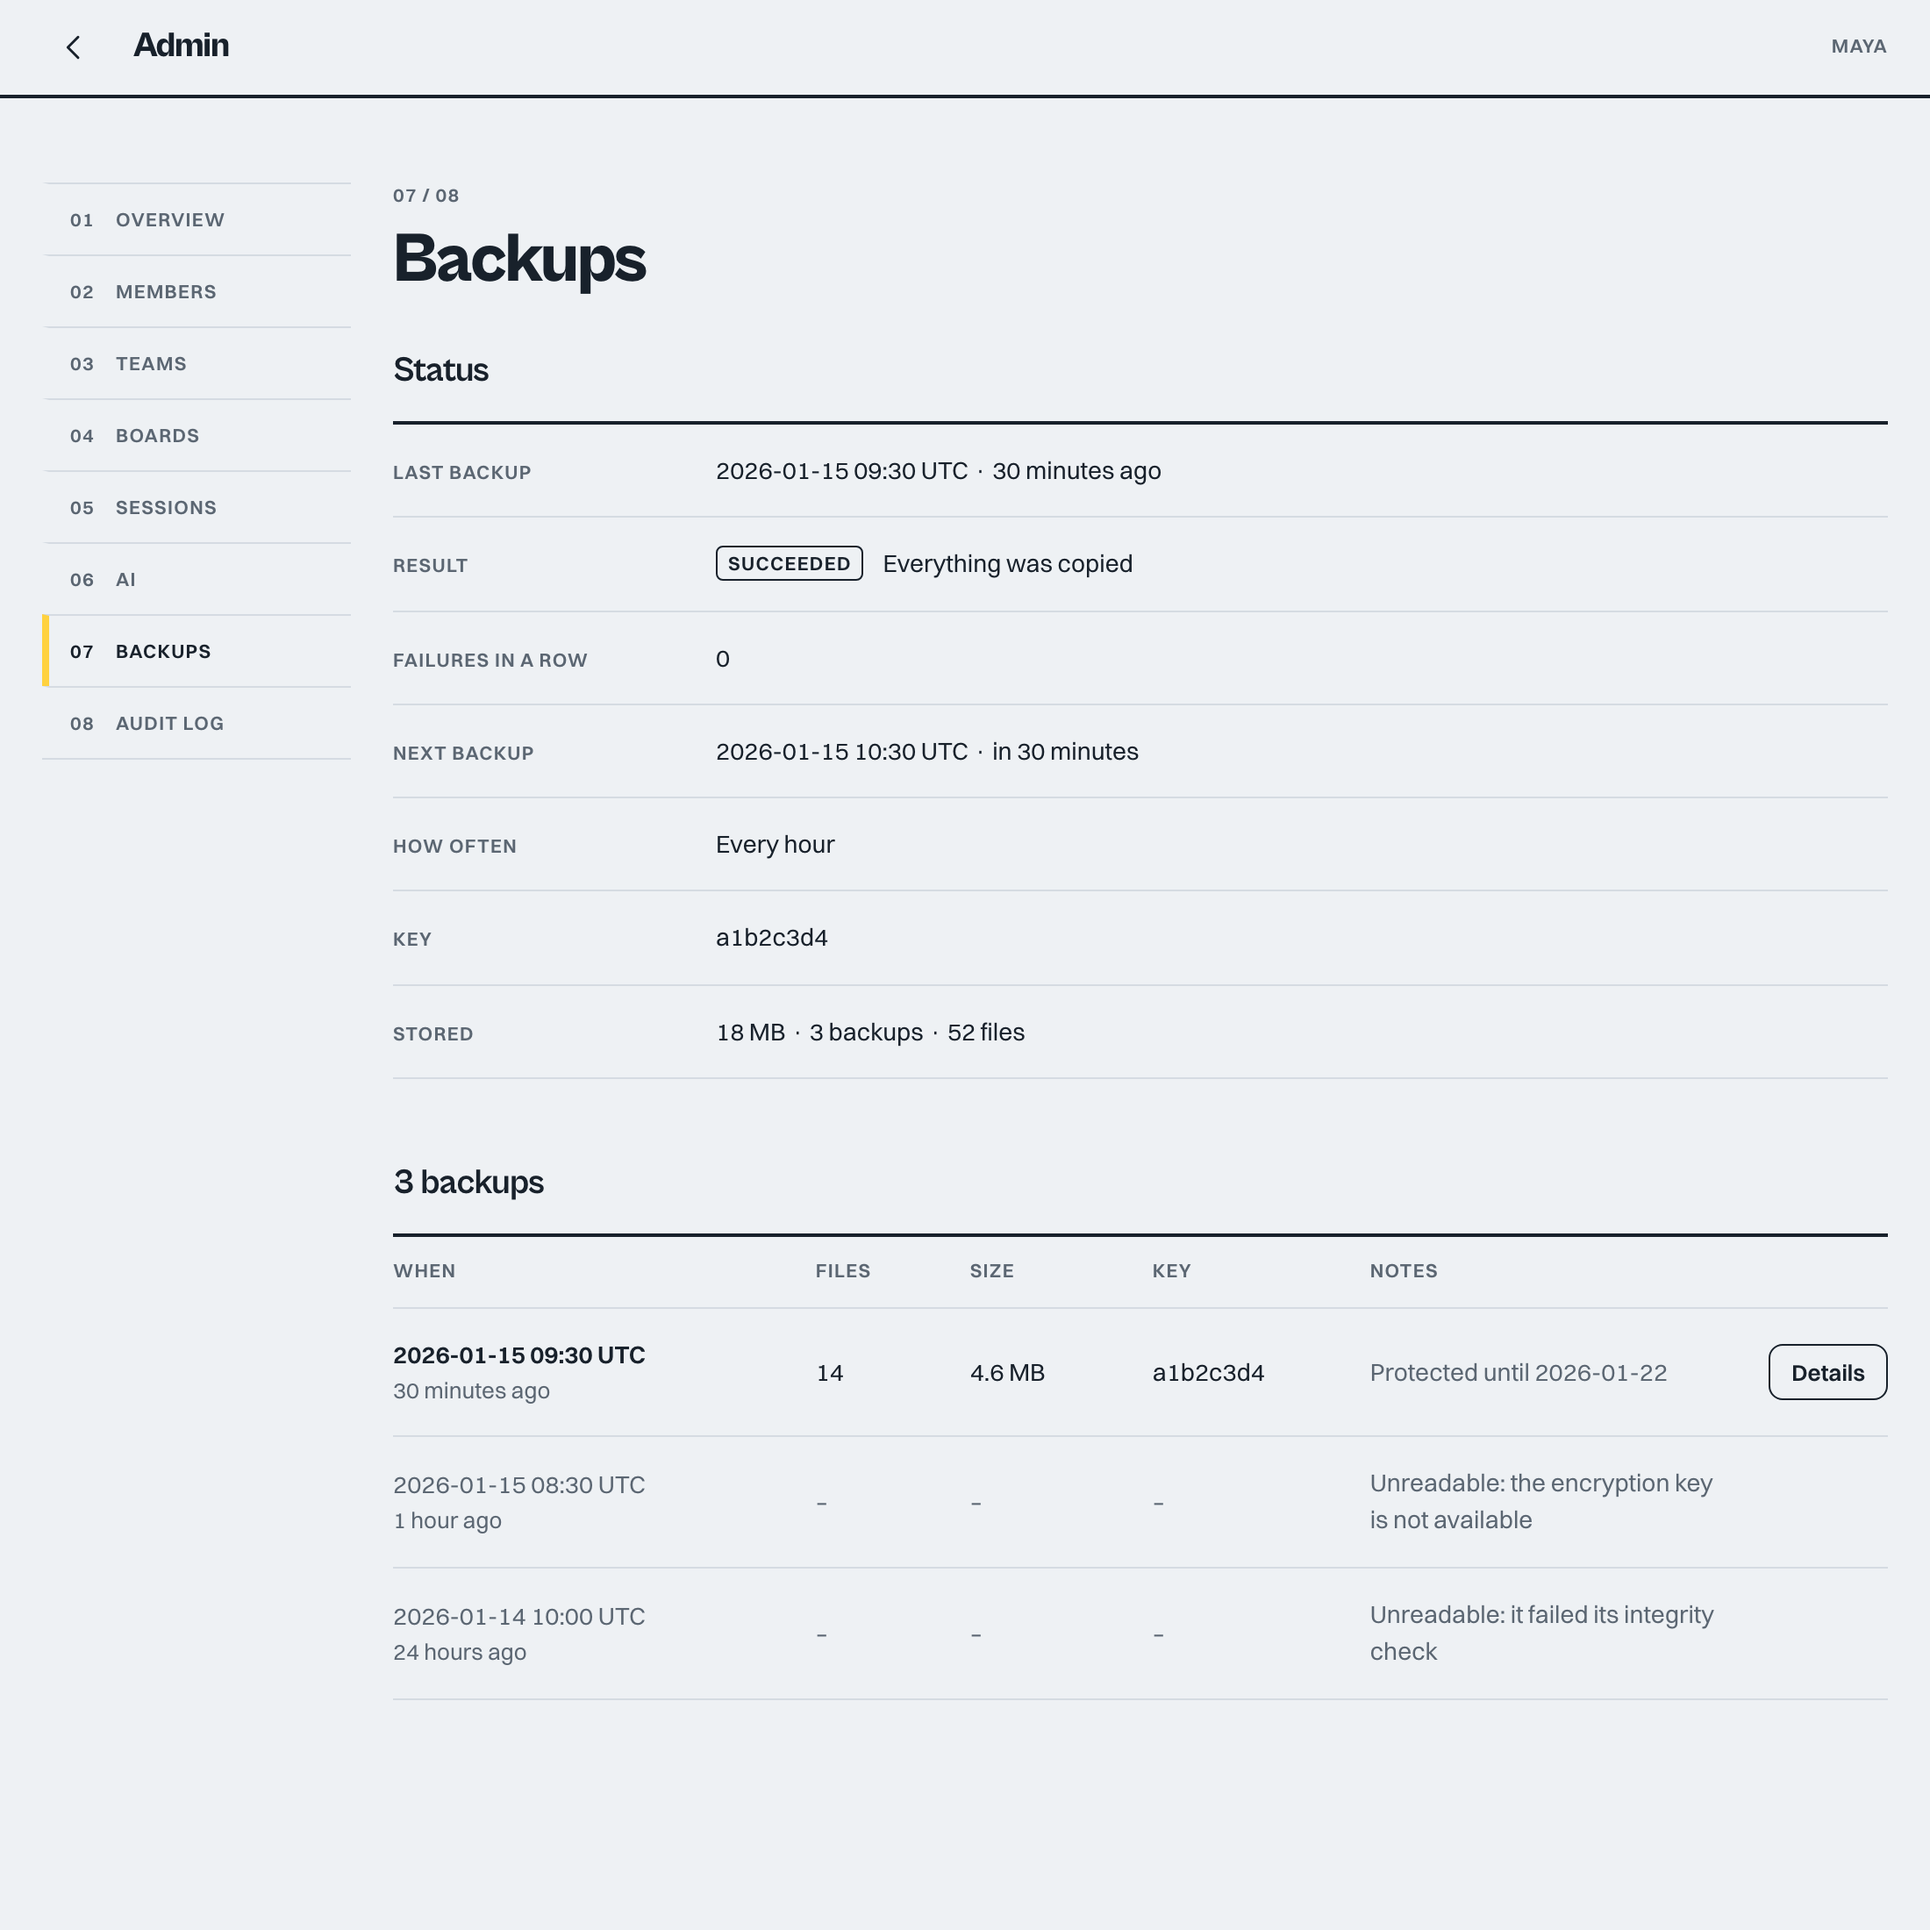
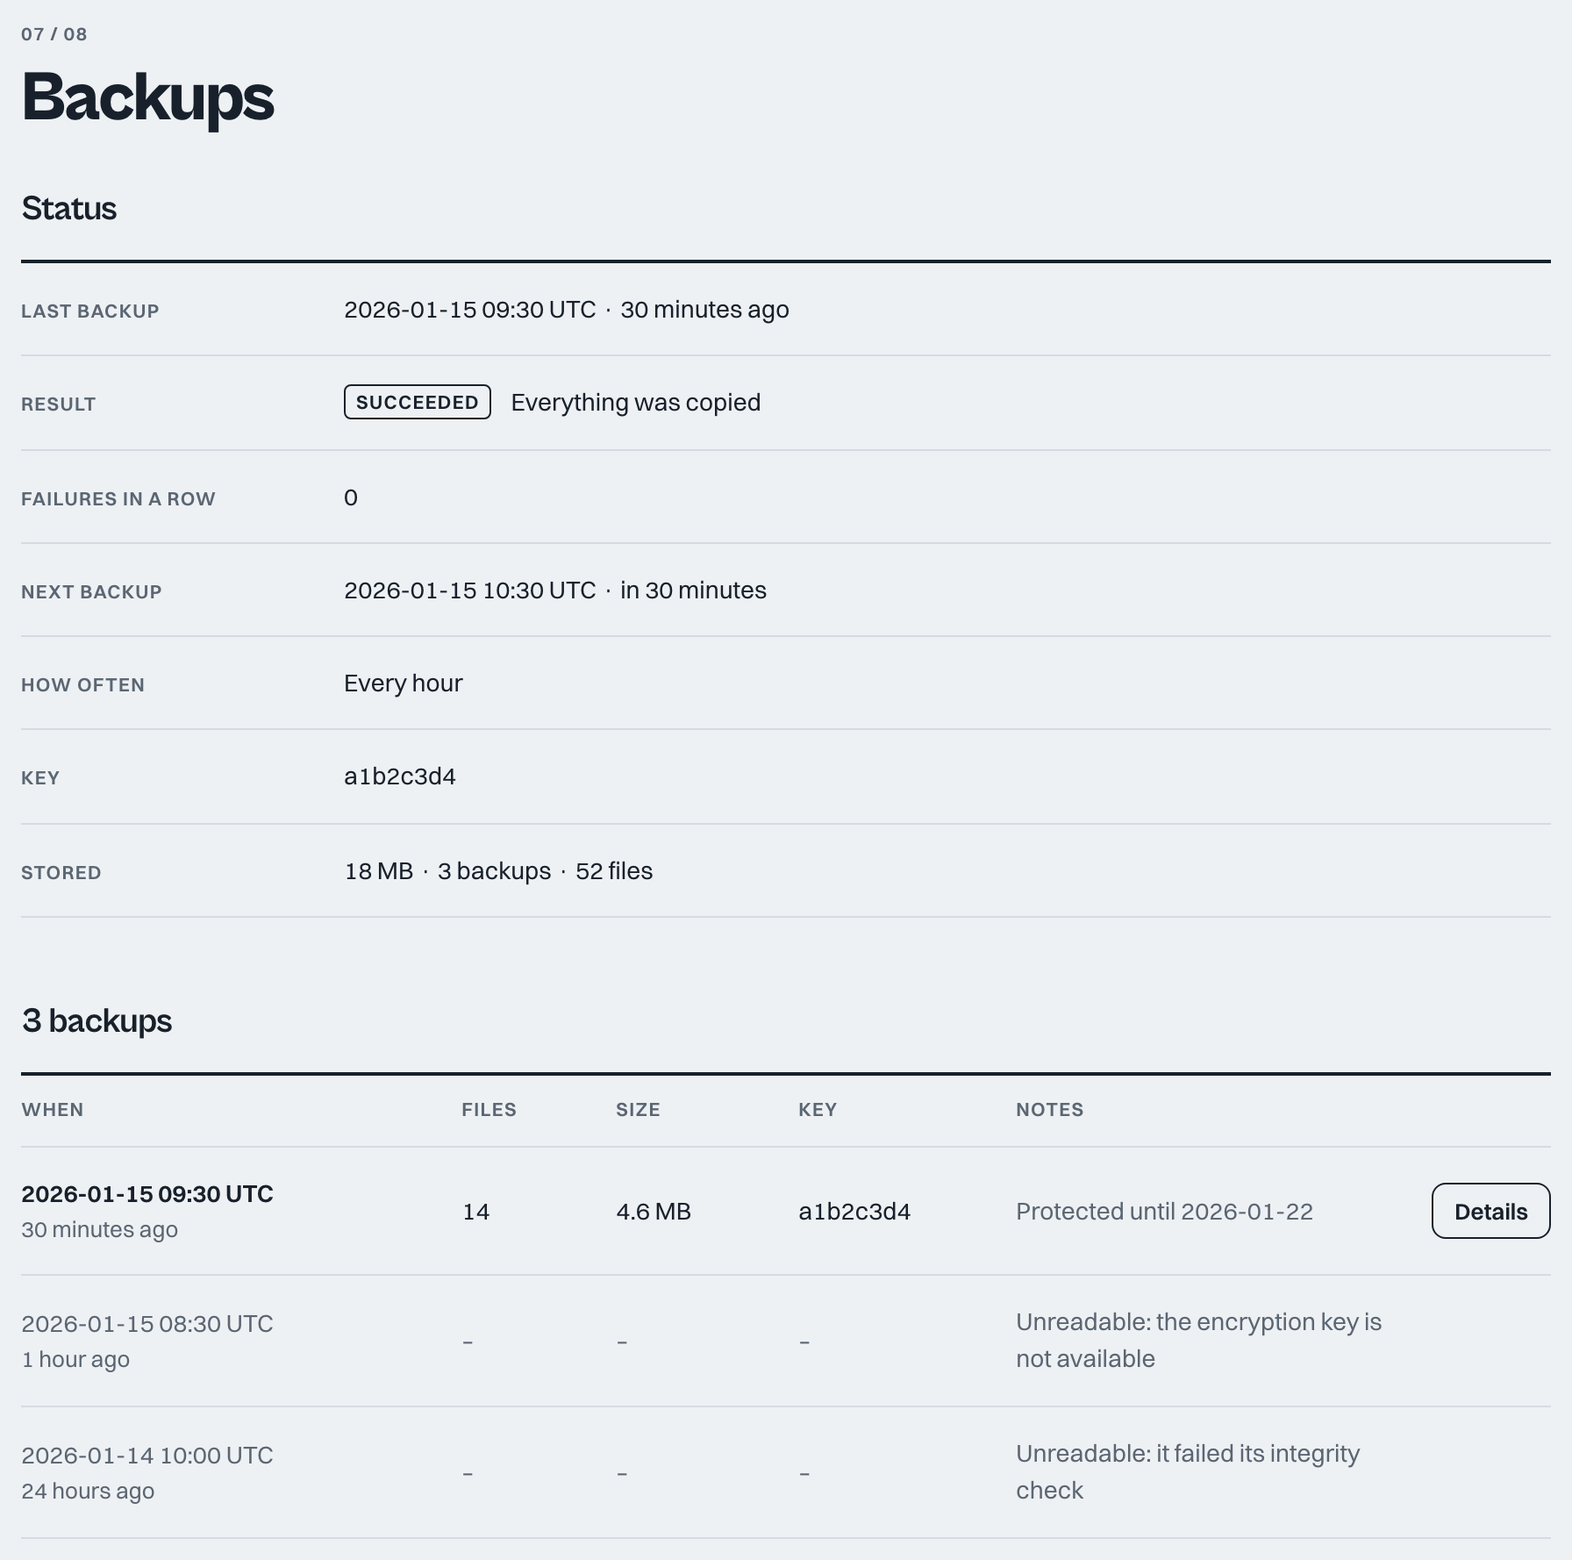
Guide screenshots: crop admin-backups and layers-panel to their content (CDX-12)

diff --git a/changelog.d/cdx-12.md b/changelog.d/cdx-12.md
@@ -1,0 +1,4 @@
+section: Changed
+audience: user
+
+- Crop the guide’s backup and layers screenshots around their content for clearer reading.
